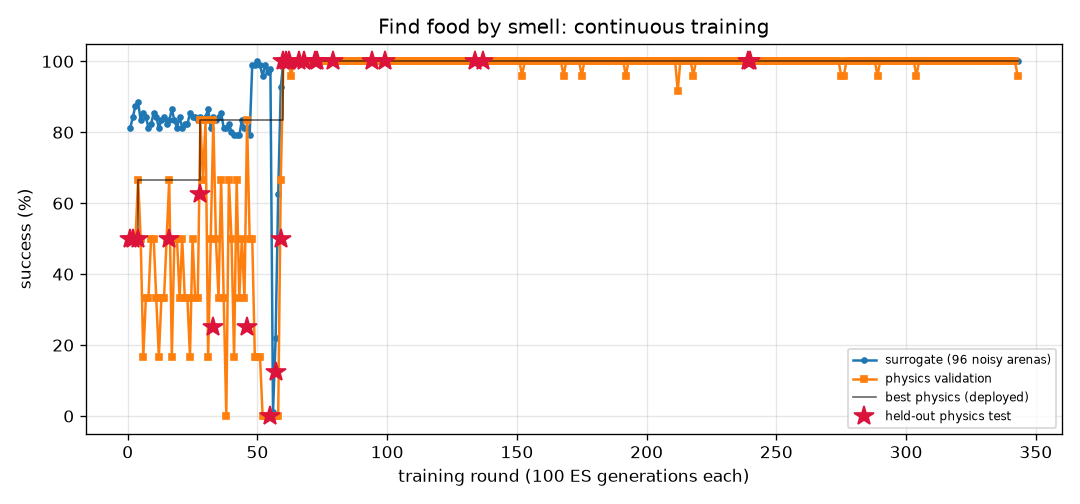
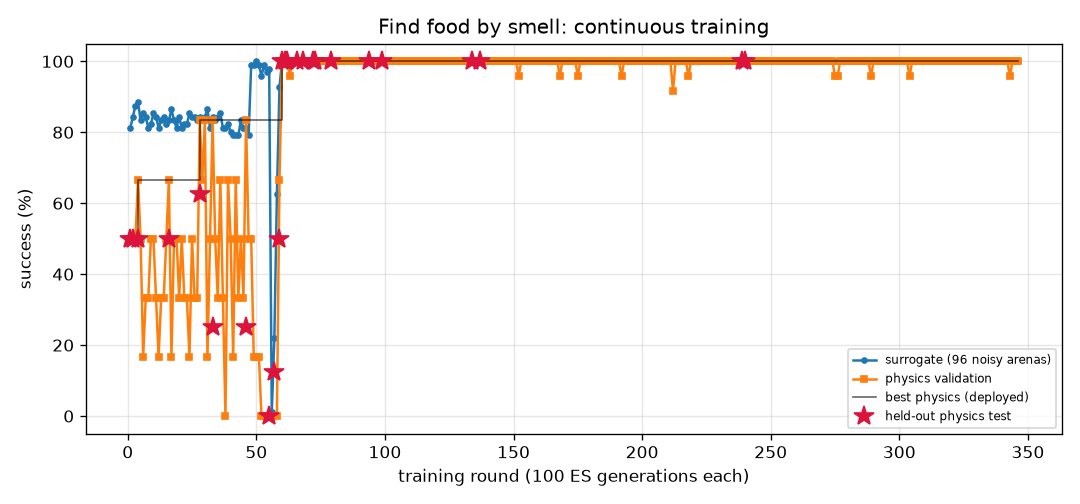
FlyLab: continuous training progress
- walk_forward: optimal, physics val 100% of 24, round 556
- turn: optimal, physics val 100% of 24, round 1392
- goto: optimal, physics val 100% of 24, round 426
- odor_seek: optimal, physics val 100% of 24, round 346
- odor_avoid: optimal, physics val 100% of 24, round 1159
- light_seek: optimal, physics val 100% of 24, round 628
- light_avoid: optimal, physics val 100% of 24, round 870

diff --git a/projects/09_flylab/training/turn/REPORT.md b/projects/09_flylab/training/turn/REPORT.md
@@ -1,14 +1,14 @@
 # Turn in place (`turn`) — training report
 
-*Auto-generated by `train_brains.py`, last updated 2026-11-26T16:48:39.*
+*Auto-generated by `train_brains.py`, last updated 2026-11-26T17:45:02.*
 
 ![curve](curve.png)
 
 | | |
 |---|---|
-| rounds | 1384 |
-| ES generations | 138400 |
-| physics runs | 33462 |
+| rounds | 1392 |
+| ES generations | 139200 |
+| physics runs | 33654 |
 | status | **optimal** |
 | best brain | round 80: physics validation **100%** on 24 arenas, surrogate 100% |
 | held-out physics test | **97%** on 32 unseen arenas (95% CI 84%-99%) (errors: [1.6, 3.3, 6.3, 3.7, 1.1, 0.4, 2.4, 2.9, 0.1, 2.6, 0.5, 2.7, 1.5, 3.1, 4.5, 0.2, 0.5, 1.1, 2.0, 4.4, 2.8, 3.2, 0.3, 2.2, 0.5, 3.0, 0.3, 5.4, 0.4, 1.0, 4.7, 10.7]) |
@@ -17,14 +17,6 @@ Physics error per arena: deg from target heading (< 20 = success).
 
 | round | level | gens | sigma | surrogate | physics val | val errors | test | note |
 |---:|---:|---:|---:|---:|---:|---|---:|---|
-| 1345 | 3 | 134500 | 0.024 | 100% | 75% | [6.8, 7.5, 2.4, 2.2, 1.5, 2.6, 3.6, 3.7, 4.1, 0.6, 4.1, 0.7, 1.9, 4.9, 3.0, 0.9, 1.8, 0.2, 1.7, 1.6, 6.8, 0.9, 4.1, 2.8] |  |  |
-| 1346 | 3 | 134600 | 0.024 | 100% | 71% | [5.3, 2.4, 5.2, 0.6, 1.2, 3.8, 7.4, 7.2, 6.6, 2.7, 6.9, 2.0, 0.9, 0.4, 5.7, 1.5, 2.0, 4.3, 0.8, 1.7, 1.8, 2.2, 7.0, 0.9] |  |  |
-| 1347 | 3 | 134700 | 0.024 | 99% | 75% | [0.7, 8.0, 6.5, 3.6, 10.7, 0.6, 4.1, 6.2, 3.7, 0.6, 2.5, 1.9, 3.9, 3.5, 3.4, 1.4, 2.2, 0.3, 1.0, 0.7, 4.1, 0.4, 3.8, 2.9] |  |  |
-| 1348 | 3 | 134800 | 0.025 | 99% | 88% | [5.0, 9.3, 8.1, 2.5, 4.0, 0.7, 3.6, 2.4, 2.0, 1.7, 3.7, 1.9, 1.3, 1.5, 3.4, 2.3, 1.4, 0.8, 2.0, 1.2, 6.8, 0.3, 3.7, 2.4] |  | restart from best |
-| 1349 | 3 | 134900 | 0.024 | 99% | 75% | [8.0, 11.0, 9.8, 4.8, 2.8, 2.6, 1.1, 6.3, 2.2, 1.8, 1.1, 2.7, 2.2, 5.0, 1.5, 0.0, 4.1, 1.4, 0.1, 2.5, 6.2, 0.4, 3.5, 1.9] |  |  |
-| 1350 | 3 | 135000 | 0.025 | 98% | 88% | [8.8, 10.8, 3.4, 2.5, 10.3, 4.0, 3.1, 2.9, 1.3, 2.4, 3.2, 3.4, 2.9, 6.4, 3.0, 0.4, 3.2, 1.5, 2.9, 1.2, 6.8, 0.6, 3.0, 1.4] |  |  |
-| 1351 | 3 | 135100 | 0.025 | 99% | 79% | [2.5, 1.1, 5.3, 2.2, 1.3, 0.1, 5.8, 7.3, 8.0, 1.5, 5.6, 1.8, 1.5, 2.0, 6.8, 3.1, 1.7, 2.2, 3.2, 3.5, 2.9, 3.2, 7.3, 8.5] |  |  |
-| 1352 | 3 | 135200 | 0.025 | 100% | 79% | [3.4, 5.6, 5.7, 2.2, 1.1, 3.2, 5.4, 7.2, 4.0, 0.2, 4.6, 0.1, 3.2, 1.1, 4.1, 0.4, 0.3, 1.9, 2.0, 0.4, 7.0, 0.6, 6.9, 1.9] |  | restart from best |
 | 1353 | 3 | 135300 | 0.024 | 99% | 96% | [6.3, 6.1, 7.6, 3.7, 1.9, 0.6, 4.7, 1.6, 4.6, 0.3, 4.3, 0.1, 0.2, 0.5, 4.2, 2.3, 0.3, 0.0, 1.9, 1.6, 4.3, 0.9, 4.5, 3.4] |  |  |
 | 1354 | 3 | 135400 | 0.025 | 98% | 71% | [4.8, 7.2, 3.0, 0.9, 1.1, 2.0, 2.5, 1.3, 5.9, 0.4, 3.9, 2.6, 1.2, 0.6, 4.3, 1.1, 2.4, 1.3, 1.0, 0.9, 9.9, 0.4, 3.3, 3.9] |  |  |
 | 1355 | 3 | 135500 | 0.025 | 100% | 83% | [7.4, 5.1, 1.0, 1.6, 5.8, 1.2, 6.7, 0.4, 4.7, 0.5, 4.0, 0.7, 1.1, 2.4, 3.3, 0.0, 1.0, 0.1, 0.5, 1.3, 5.5, 0.7, 4.8, 5.2] |  |  |
@@ -57,3 +49,11 @@ Physics error per arena: deg from target heading (< 20 = success).
 | 1382 | 3 | 138200 | 0.025 | 100% | 92% | [0.3, 5.4, 1.3, 1.7, 1.5, 2.2, 5.6, 3.6, 5.8, 0.4, 4.0, 0.5, 2.7, 2.8, 4.3, 0.6, 0.9, 0.7, 0.1, 0.1, 1.9, 1.0, 0.4, 3.6] |  |  |
 | 1383 | 3 | 138300 | 0.024 | 100% | 71% | [5.7, 4.1, 0.1, 2.0, 1.9, 1.6, 6.0, 5.9, 4.5, 0.1, 4.2, 0.4, 1.3, 3.8, 4.4, 1.5, 0.5, 1.5, 0.5, 0.1, 3.4, 1.6, 5.9, 5.7] |  |  |
 | 1384 | 3 | 138400 | 0.024 | 99% | 79% | [4.2, 8.7, 1.2, 1.6, 2.6, 0.6, 3.4, 4.8, 4.3, 12.4, 4.0, 1.8, 0.4, 3.1, 3.1, 1.0, 1.9, 0.9, 3.6, 0.9, 4.6, 3.9, 3.5, 4.3] |  | restart from best |
+| 1385 | 3 | 138500 | 0.024 | 99% | 79% | [9.8, 10.0, 8.9, 2.8, 8.7, 117.9, 4.5, 1.4, 4.7, 1.1, 3.1, 3.0, 2.7, 0.1, 2.8, 4.0, 3.2, 0.2, 0.5, 1.4, 8.2, 0.4, 2.5, 4.4] |  |  |
+| 1386 | 3 | 138600 | 0.025 | 99% | 79% | [5.5, 4.7, 1.5, 1.6, 4.5, 3.6, 5.1, 7.4, 5.7, 14.9, 3.1, 1.3, 0.3, 0.3, 4.8, 1.5, 0.3, 1.1, 1.5, 1.9, 6.4, 2.3, 6.1, 4.1] |  |  |
+| 1387 | 3 | 138700 | 0.025 | 97% | 83% | [7.6, 2.9, 4.3, 0.0, 14.8, 2.1, 4.5, 7.4, 5.0, 0.0, 5.0, 0.1, 1.4, 1.9, 4.8, 2.8, 4.5, 0.7, 2.6, 0.4, 3.9, 1.4, 4.4, 7.2] |  |  |
+| 1388 | 3 | 138800 | 0.026 | 98% | 88% | [11.4, 12.1, 3.8, 3.9, 10.4, 0.8, 0.7, 6.8, 0.3, 3.2, 2.5, 4.5, 4.0, 4.0, 0.3, 3.2, 4.7, 1.9, 5.0, 4.4, 9.5, 0.0, 1.5, 2.6] |  | restart from best |
+| 1389 | 3 | 138900 | 0.024 | 97% | 83% | [10.9, 11.6, 6.2, 5.1, 4.7, 5.3, 2.3, 9.4, 2.7, 1.1, 1.9, 4.7, 3.2, 3.2, 1.0, 3.4, 4.5, 2.8, 4.2, 3.6, 8.5, 1.1, 2.4, 7.1] |  |  |
+| 1390 | 3 | 139000 | 0.026 | 99% | 83% | [2.1, 3.1, 2.1, 3.0, 0.7, 2.2, 6.8, 6.1, 7.0, 0.3, 4.8, 1.7, 1.3, 1.8, 5.8, 1.3, 1.6, 5.4, 1.7, 4.3, 4.0, 1.0, 7.4, 7.7] |  |  |
+| 1391 | 3 | 139100 | 0.025 | 100% | 75% | [4.3, 2.7, 11.7, 1.0, 1.8, 2.3, 6.1, 9.0, 7.1, 0.3, 5.2, 0.4, 1.0, 3.3, 4.5, 1.2, 0.6, 2.9, 1.4, 1.7, 5.8, 1.4, 6.4, 7.5] |  |  |
+| 1392 | 3 | 139200 | 0.024 | 99% | 79% | [6.3, 7.1, 10.8, 2.4, 5.0, 0.5, 3.7, 1.4, 3.3, 1.2, 3.9, 1.6, 1.7, 1.2, 3.3, 1.5, 1.1, 0.4, 1.3, 1.2, 5.0, 0.1, 4.8, 4.6] |  | restart from best |

diff --git a/projects/09_flylab/training/odor_seek/REPORT.md b/projects/09_flylab/training/odor_seek/REPORT.md
@@ -1,14 +1,14 @@
 # Find food by smell (`odor_seek`) — training report
 
-*Auto-generated by `train_brains.py`, last updated 2026-11-26T16:41:11.*
+*Auto-generated by `train_brains.py`, last updated 2026-11-26T17:36:54.*
 
 ![curve](curve.png)
 
 | | |
 |---|---|
-| rounds | 343 |
-| ES generations | 34300 |
-| physics runs | 7726 |
+| rounds | 346 |
+| ES generations | 34600 |
+| physics runs | 7798 |
 | status | **optimal** |
 | best brain | round 240: physics validation **100%** on 24 arenas, surrogate 100% |
 | held-out physics test | **100%** on 32 unseen arenas (95% CI 89%-100%) (errors: [0.02, 0.03, 0.03, 0.05, 0.04, 0.05, 0.06, 0.07, 0.09, 0.05, 0.05, 0.01, 0.12, 0.03, 0.07, 0.08, 0.02, 0.06, 0.03, 0.04, 0.0, 0.01, 0.09, 0.05, 0.04, 0.01, 0.07, 0.05, 0.08, 0.05, 0.05, 0.02]) |
@@ -17,9 +17,6 @@ Physics error per arena: mm from target at the end (< 1.5 and standing still = s
 
 | round | level | gens | sigma | surrogate | physics val | val errors | test | note |
 |---:|---:|---:|---:|---:|---:|---|---:|---|
-| 304 | 3 | 30400 | 0.024 | 100% | 96% | [0.24, 0.19, 0.22, 0.15, 0.26, 0.22, 0.21, 0.2, 0.22, 0.13, 17.17, 0.2, 0.17, 0.15, 0.19, 0.24, 0.14, 0.21, 0.23, 0.26, 0.26, 0.28, 0.27, 0.22] |  | restart from best |
-| 305 | 3 | 30500 | 0.024 | 100% | 100% | [0.08, 0.17, 0.15, 0.04, 0.06, 0.12, 0.26, 0.08, 0.11, 0.07, 0.15, 0.15, 0.07, 0.16, 0.17, 0.13, 0.17, 0.1, 0.19, 0.2, 0.18, 0.17, 0.16, 0.13] |  |  |
-| 306 | 3 | 30600 | 0.024 | 100% | 100% | [0.17, 0.17, 0.12, 0.23, 0.09, 0.09, 0.06, 0.08, 0.17, 0.1, 0.16, 0.11, 0.15, 0.09, 0.14, 0.11, 0.06, 0.1, 0.11, 0.13, 0.09, 0.13, 0.12, 0.12] |  |  |
 | 307 | 3 | 30700 | 0.024 | 100% | 100% | [0.07, 0.2, 0.13, 0.09, 0.05, 0.11, 0.13, 0.07, 0.16, 0.22, 0.05, 0.07, 0.17, 0.05, 0.11, 0.04, 0.17, 0.16, 0.21, 0.06, 0.08, 0.17, 0.05, 0.11] |  |  |
 | 308 | 3 | 30800 | 0.024 | 100% | 100% | [0.07, 0.18, 0.1, 0.14, 0.11, 0.1, 0.1, 0.12, 0.15, 0.14, 0.13, 0.09, 0.21, 0.09, 0.15, 0.08, 0.13, 0.12, 0.12, 0.26, 0.14, 0.15, 0.1, 0.1] |  | restart from best |
 | 309 | 3 | 30900 | 0.024 | 100% | 100% | [0.05, 0.08, 0.03, 0.02, 0.06, 0.04, 0.05, 0.1, 0.08, 0.06, 0.11, 0.19, 0.06, 0.01, 0.04, 0.06, 0.13, 0.12, 0.08, 0.07, 0.02, 0.1, 0.09, 0.04] |  |  |
@@ -57,3 +54,6 @@ Physics error per arena: mm from target at the end (< 1.5 and standing still = s
 | 341 | 3 | 34100 | 0.024 | 100% | 100% | [0.13, 0.16, 0.2, 0.17, 0.24, 0.15, 0.15, 0.21, 0.21, 0.2, 0.12, 0.19, 0.14, 0.13, 0.13, 0.19, 0.15, 0.13, 0.17, 0.12, 0.11, 0.13, 0.12, 0.21] |  |  |
 | 342 | 3 | 34200 | 0.024 | 100% | 100% | [0.12, 0.14, 0.16, 0.19, 0.2, 0.1, 0.15, 0.09, 0.19, 0.14, 0.18, 0.17, 0.17, 0.19, 0.15, 0.19, 0.2, 0.16, 0.17, 0.11, 0.19, 0.18, 0.18, 0.2] |  |  |
 | 343 | 3 | 34300 | 0.024 | 100% | 96% | [0.22, 0.25, 0.25, 0.33, 0.2, 0.24, 0.19, 0.24, 0.17, 0.27, 0.27, 0.21, 0.19, 23.6, 0.27, 0.21, 0.24, 0.21, 0.19, 0.18, 0.25, 0.24, 0.23, 0.2] |  |  |
+| 344 | 3 | 34400 | 0.024 | 100% | 100% | [0.17, 0.18, 0.19, 0.17, 0.19, 0.17, 0.12, 0.19, 0.19, 0.13, 0.18, 0.19, 0.19, 0.19, 0.12, 0.18, 0.17, 0.21, 0.14, 0.23, 0.2, 0.2, 0.16, 0.14] |  | restart from best |
+| 345 | 3 | 34500 | 0.024 | 100% | 100% | [0.26, 0.16, 0.18, 0.19, 0.18, 0.21, 0.16, 0.22, 0.17, 0.18, 0.15, 0.25, 0.23, 0.19, 0.18, 0.22, 0.27, 0.24, 0.21, 0.2, 0.17, 0.11, 0.15, 0.28] |  |  |
+| 346 | 3 | 34600 | 0.024 | 100% | 100% | [0.13, 0.14, 0.11, 0.2, 0.17, 0.14, 0.2, 0.09, 0.13, 0.11, 0.27, 0.11, 0.18, 0.21, 0.21, 0.17, 0.21, 0.22, 0.18, 0.13, 0.16, 0.2, 0.13, 0.16] |  |  |

diff --git a/projects/09_flylab/training/odor_avoid/REPORT.md b/projects/09_flylab/training/odor_avoid/REPORT.md
@@ -1,14 +1,14 @@
 # Escape a bad smell (`odor_avoid`) — training report
 
-*Auto-generated by `train_brains.py`, last updated 2026-11-26T14:27:07.*
+*Auto-generated by `train_brains.py`, last updated 2026-11-26T17:46:12.*
 
 ![curve](curve.png)
 
 | | |
 |---|---|
-| rounds | 1158 |
-| ES generations | 115800 |
-| physics runs | 25098 |
+| rounds | 1159 |
+| ES generations | 115900 |
+| physics runs | 25122 |
 | status | **optimal** |
 | best brain | round 373: physics validation **100%** on 24 arenas, surrogate 97% |
 | held-out physics test | **97%** on 32 unseen arenas (95% CI 84%-99%) (errors: [62.0, 57.4, 62.6, 61.9, 59.0, 61.6, 56.5, 60.7, 31.7, 60.9, 63.1, 57.1, 61.1, 62.1, 61.5, 60.2, 62.2, 55.2, 62.1, 54.2, 61.3, 62.0, 58.0, 61.9, 59.8, 56.5, 56.3, 56.4, 56.3, 57.7, 61.9, 32.4]) |
@@ -17,7 +17,6 @@ Physics error per arena: mm gained away from source (> 6 without first approachi
 
 | round | level | gens | sigma | surrogate | physics val | val errors | test | note |
 |---:|---:|---:|---:|---:|---:|---|---:|---|
-| 1119 | 3 | 111900 | 0.026 | 91% | 100% | [12.5, 54.4, 55.9, 53.5, 62.6, 61.9, 59.5, 62.1, 60.3, 61.6, 61.8, 62.3, 55.0, 56.7, 50.1, 62.5, 62.6, 62.2, 55.6, 53.9, 62.3, 61.7, 59.7, 61.8] |  |  |
 | 1120 | 3 | 112000 | 0.029 | 97% | 100% | [61.3, 58.5, 56.1, 59.0, 61.2, 61.6, 60.1, 29.6, 61.4, 60.8, 61.2, 60.9, 54.9, 57.0, 51.7, 60.7, 61.7, 60.8, 55.0, 56.7, 62.0, 61.6, 58.9, 47.4] |  |  |
 | 1121 | 3 | 112100 | 0.026 | 98% | 96% | [52.4, 51.3, 51.7, 51.9, 50.4, 52.6, 52.4, 52.5, 52.1, 40.0, 23.1, 52.7, 44.2, 50.7, 13.9, 46.7, 52.6, 42.3, 46.4, 50.0, 53.0, 53.5, 52.3, 53.9] |  | restart from best |
 | 1122 | 3 | 112200 | 0.026 | 96% | 96% | [62.3, 59.7, 57.7, 60.8, 61.8, 62.2, 62.0, 59.5, 62.0, 61.2, 61.4, 61.7, 53.8, 58.4, 34.1, 61.9, 62.0, 61.6, 55.0, 59.6, 62.1, 61.8, 60.3, 55.3] |  |  |
@@ -57,3 +56,4 @@ Physics error per arena: mm gained away from source (> 6 without first approachi
 | 1156 | 3 | 115600 | 0.026 | 96% | 100% | [62.2, 56.8, 56.9, 56.9, 62.3, 61.9, 61.2, 59.0, 61.7, 61.6, 62.3, 62.0, 54.7, 58.1, 50.3, 62.7, 61.8, 62.6, 55.1, 56.8, 62.1, 61.5, 58.7, 62.2] |  |  |
 | 1157 | 3 | 115700 | 0.026 | 96% | 100% | [60.3, 55.5, 55.7, 57.5, 52.9, 56.3, 61.0, 58.8, 61.1, 58.4, 20.1, 61.0, 15.9, 51.6, 42.9, 60.9, 60.7, 59.9, 47.8, 58.4, 61.2, 60.8, 58.5, 60.9] |  | restart from best |
 | 1158 | 3 | 115800 | 0.026 | 97% | 96% | [63.6, 61.4, 56.7, 61.1, 62.7, 62.7, 62.7, 61.4, 59.8, 62.3, 62.4, 62.2, 53.0, 56.5, 21.6, 61.9, 62.0, 61.8, 54.8, 58.2, 61.9, 62.9, 58.4, 61.3] |  |  |
+| 1159 | 3 | 115900 | 0.026 | 97% | 92% | [63.4, 61.1, 56.7, 59.4, 62.5, 62.3, 62.0, 59.9, 60.8, 62.3, 62.3, 62.1, 53.5, 56.7, 48.3, 62.0, 62.2, 62.2, 50.5, 56.4, 62.2, 62.4, 59.0, 62.9] |  |  |

diff --git a/projects/09_flylab/training/TRAINING.md b/projects/09_flylab/training/TRAINING.md
@@ -1,15 +1,15 @@
 # FlyLab brains — continuous training log
 
-*Auto-generated by `train_brains.py`, last updated 2026-11-26T16:48:39.*
+*Auto-generated by `train_brains.py`, last updated 2026-11-26T17:46:12.*
 
 Every skill has its own brain and its own training process: surrogate ES rounds, physics validation in MuJoCo, keep-the-best selection, and a held-out physics test that is never used for selection. See each skill's report for its full round-by-round history. Mastery is progressive: passing a level (100% physics validation, >=95% surrogate) doubles the validation and test arena sets; a brain is **optimal** once it holds up at level 3 (>=95% of 24 validation arenas) AND scores >=90% on the 32 held-out test arenas. Test columns show 95% Wilson confidence intervals.
 
 | skill | rounds | ES generations | physics runs | surrogate | physics val | **physics test** | status |
 |---|---:|---:|---:|---:|---:|---:|---|
 | [Walk forward](walk_forward/REPORT.md) | 556 | 55600 | 13422 | 100% | 100% of 24 | 100% of 32 (CI 89-100%) | **optimal** |
-| [Turn in place](turn/REPORT.md) | 1384 | 138400 | 33462 | 100% | 100% of 24 | 97% of 32 (CI 84-99%) | **optimal** |
+| [Turn in place](turn/REPORT.md) | 1392 | 139200 | 33654 | 100% | 100% of 24 | 97% of 32 (CI 84-99%) | **optimal** |
 | [Go to a location](goto/REPORT.md) | 426 | 42600 | 10174 | 100% | 100% of 24 | 100% of 32 (CI 89-100%) | **optimal** |
-| [Find food by smell](odor_seek/REPORT.md) | 343 | 34300 | 7726 | 100% | 100% of 24 | 100% of 32 (CI 89-100%) | **optimal** |
-| [Escape a bad smell](odor_avoid/REPORT.md) | 1158 | 115800 | 25098 | 97% | 100% of 24 | 97% of 32 (CI 84-99%) | **optimal** |
+| [Find food by smell](odor_seek/REPORT.md) | 346 | 34600 | 7798 | 100% | 100% of 24 | 100% of 32 (CI 89-100%) | **optimal** |
+| [Escape a bad smell](odor_avoid/REPORT.md) | 1159 | 115900 | 25122 | 97% | 100% of 24 | 97% of 32 (CI 84-99%) | **optimal** |
 | [Walk toward light](light_seek/REPORT.md) | 628 | 62800 | 11952 | 100% | 100% of 24 | 100% of 32 (CI 89-100%) | **optimal** |
 | [Hide from light](light_avoid/REPORT.md) | 870 | 87000 | 21152 | 100% | 100% of 24 | 100% of 32 (CI 89-100%) | **optimal** |
